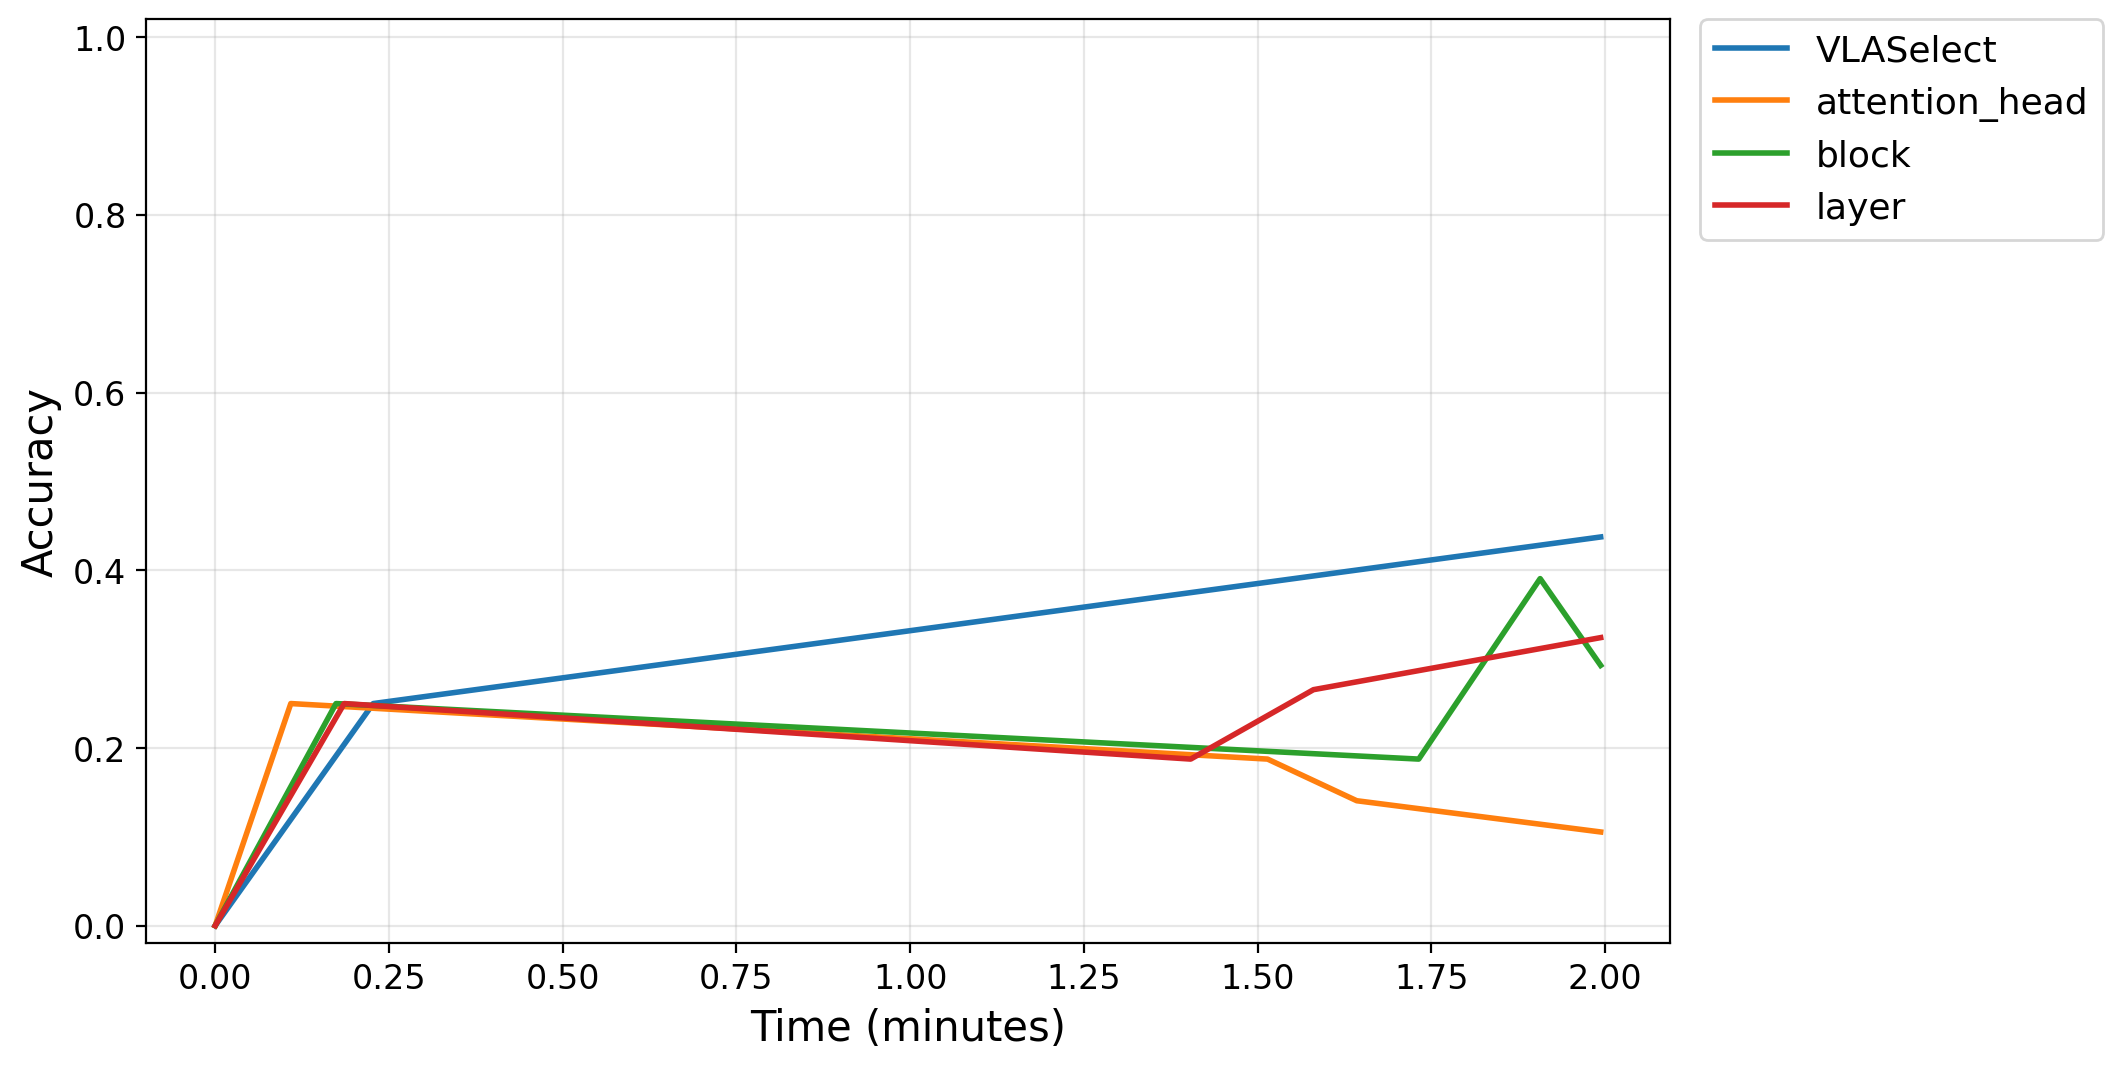
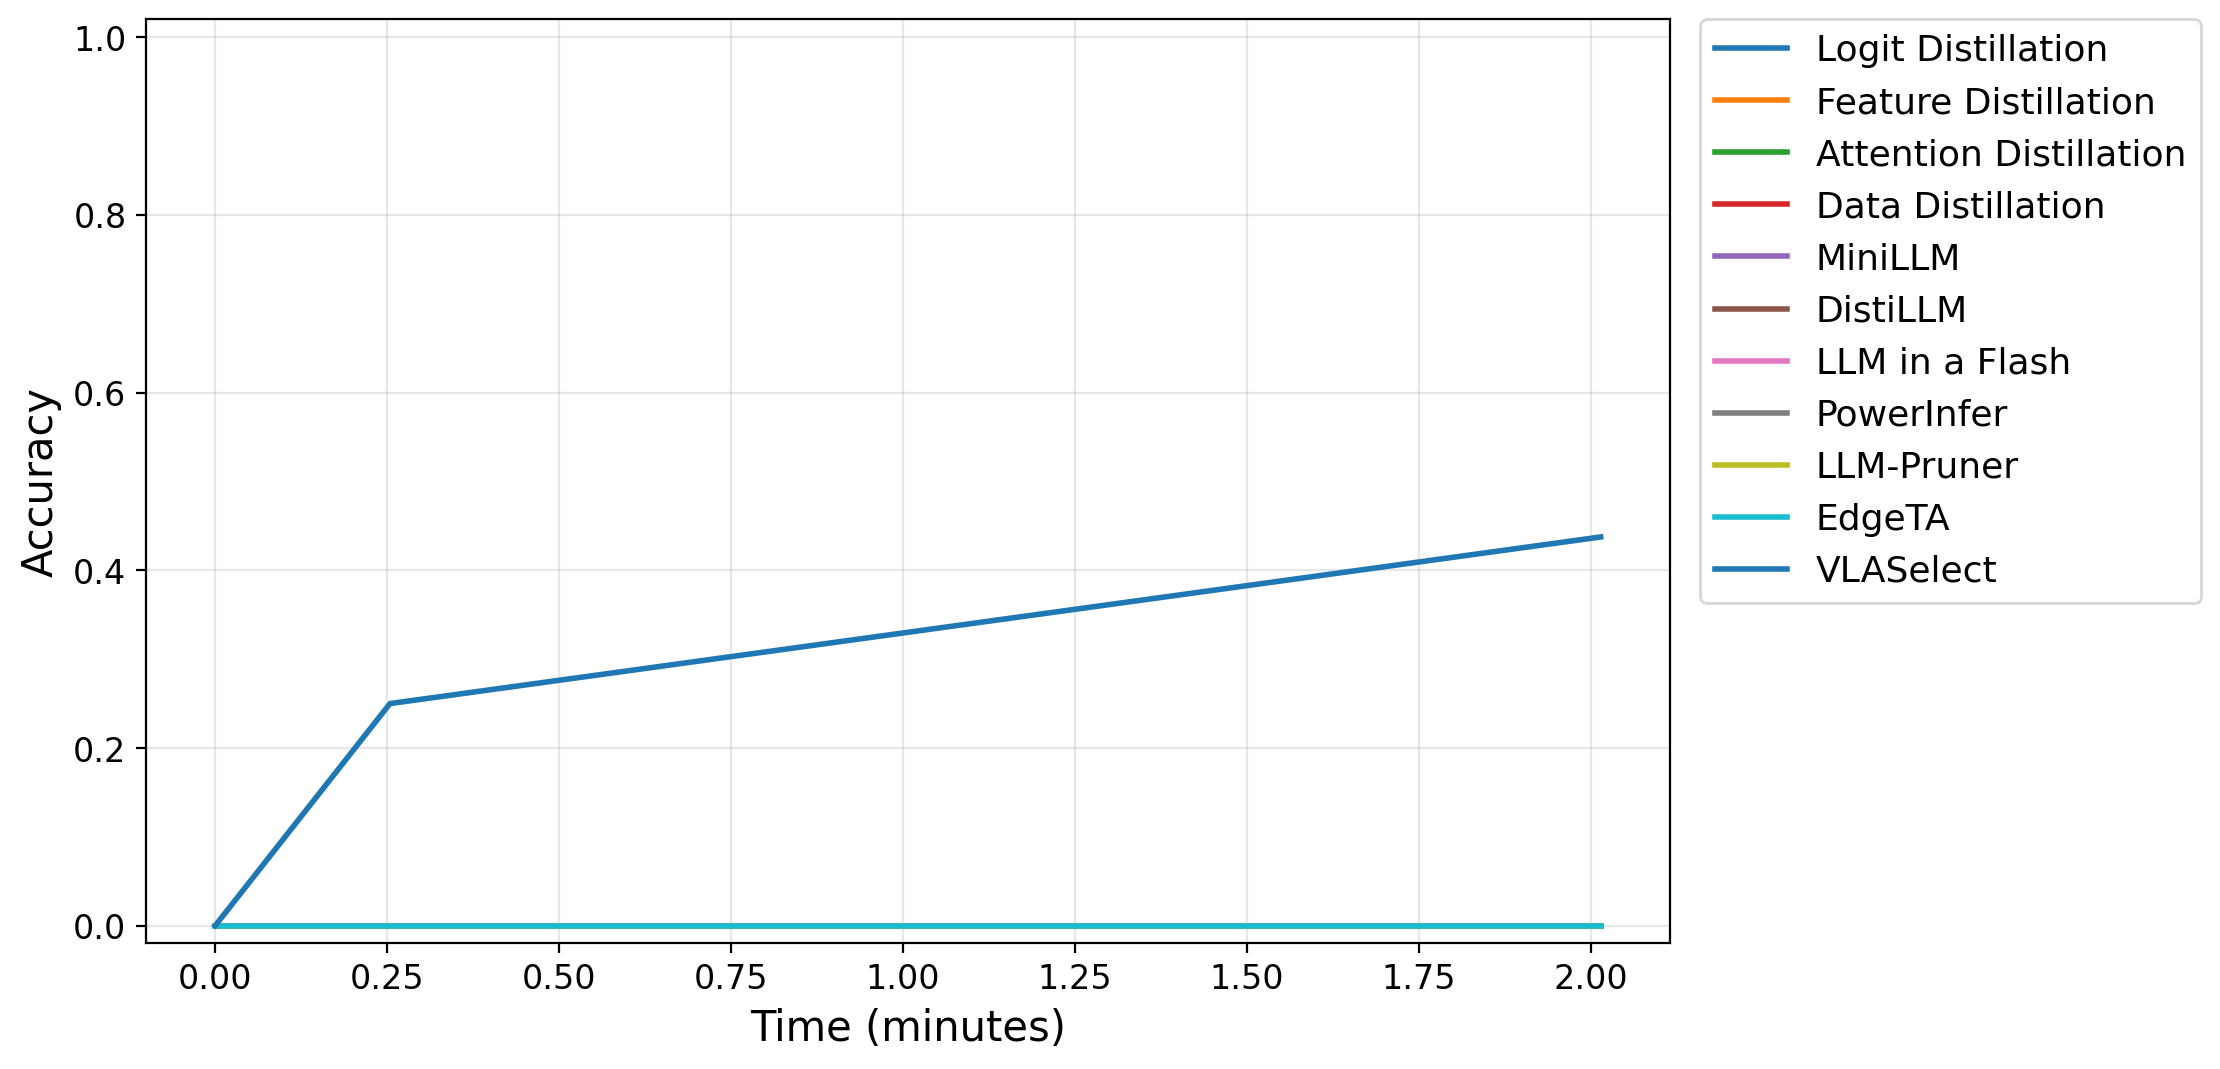
update apis and docs

diff --git a/README.md b/README.md
@@ -776,7 +776,7 @@ run_training(model_impl, parse_args(), EdgeTAScaling())
 ```
 
 **Minimum working example**: 
-- **Compare all scaling methods**. You can run the minimum working examples of all scaling methods on TinyVLA by the command below. [[Example running results]]()
+- **Compare all scaling methods**. You can run the minimum working examples of all scaling methods on TinyVLA by the command below. [[Example running results]](imgs/3.2.2-mwe.png)
   ```bash
   MWE=1 bash api/vla_model_interface_examples/tinyvla_impl_verify-all_scaling_methods.sh
   ```
@@ -816,7 +816,7 @@ run_training(model_impl, parse_args(), NeuronKnowledgeExchange())
 ```
 
 **Minimum working example**: 
-- **Comparing all granularities**. You can run the minimum working examples of all granularities on TinyVLA by the command below. [[Example running results]]()
+- **Comparing all granularities**. You can run the minimum working examples of all granularities on TinyVLA by the command below. [[Example running results]](imgs/3.2.3-mwe.png)
   ```bash
   MWE=1 bash api/vla_model_interface_examples/tiny_vla_impl_verify-all_granularities.sh
   ```
